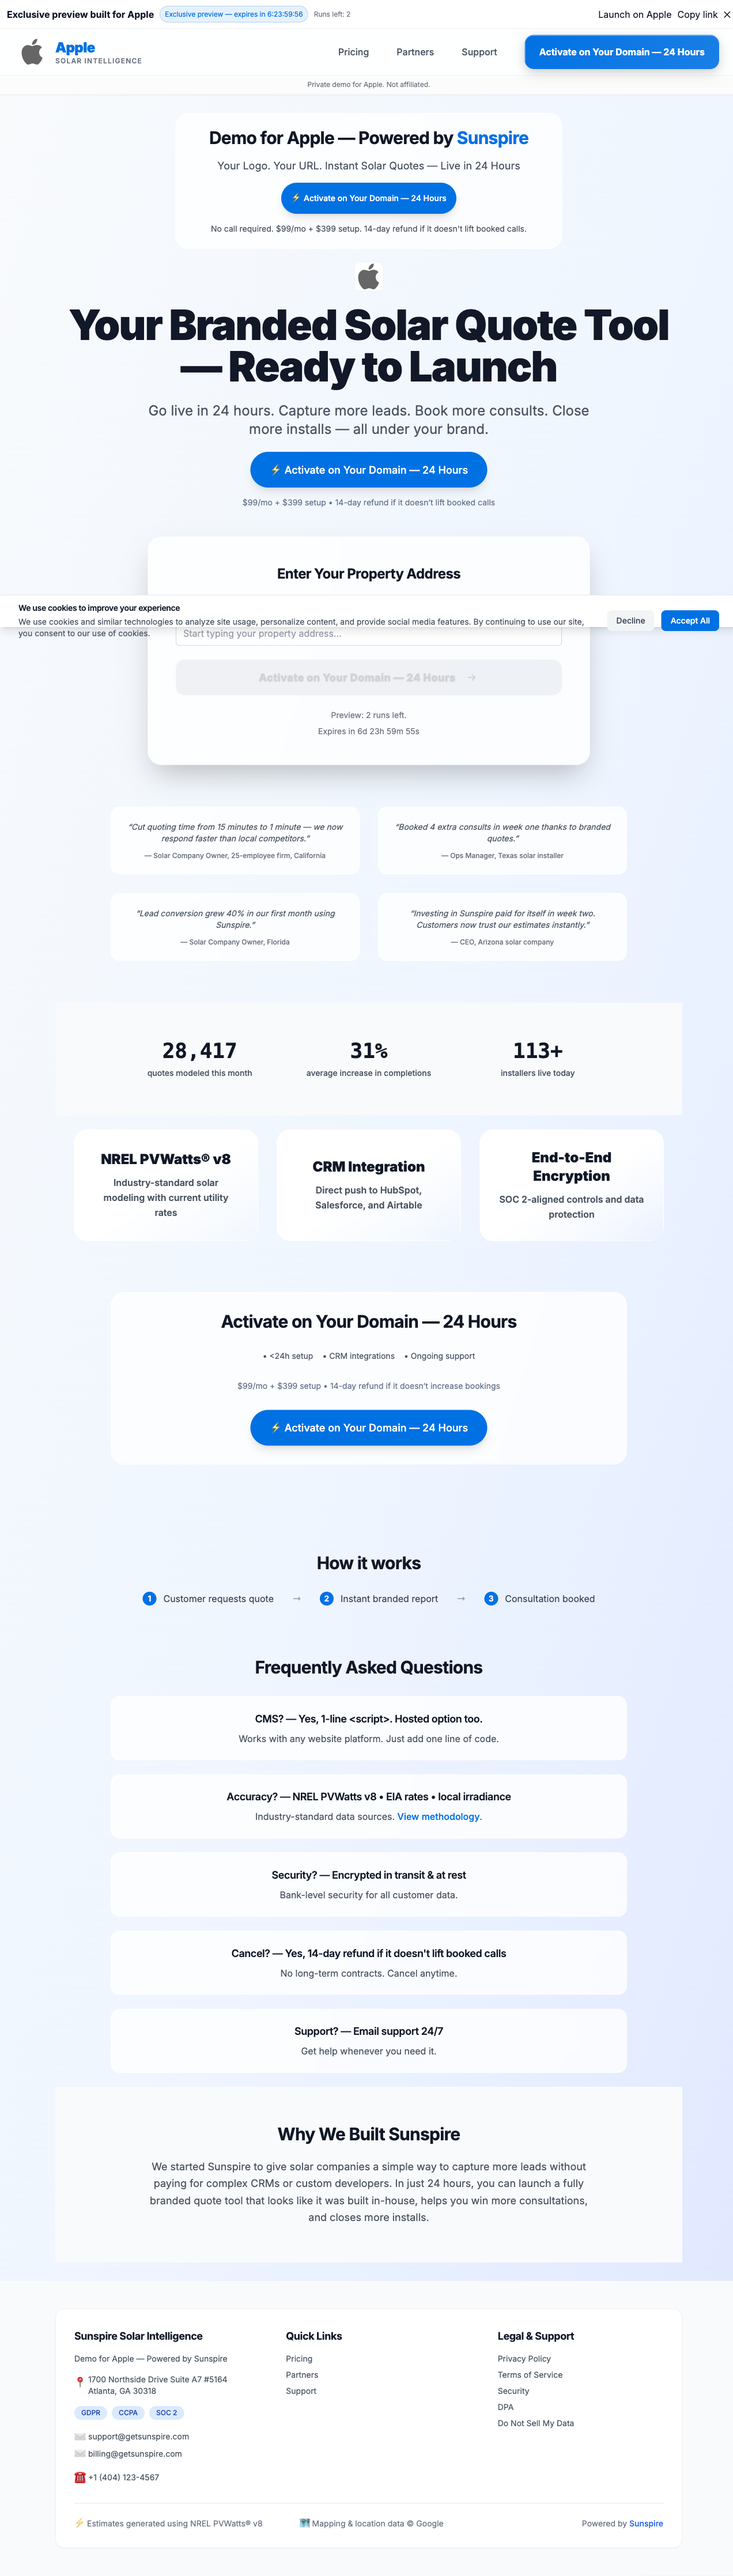
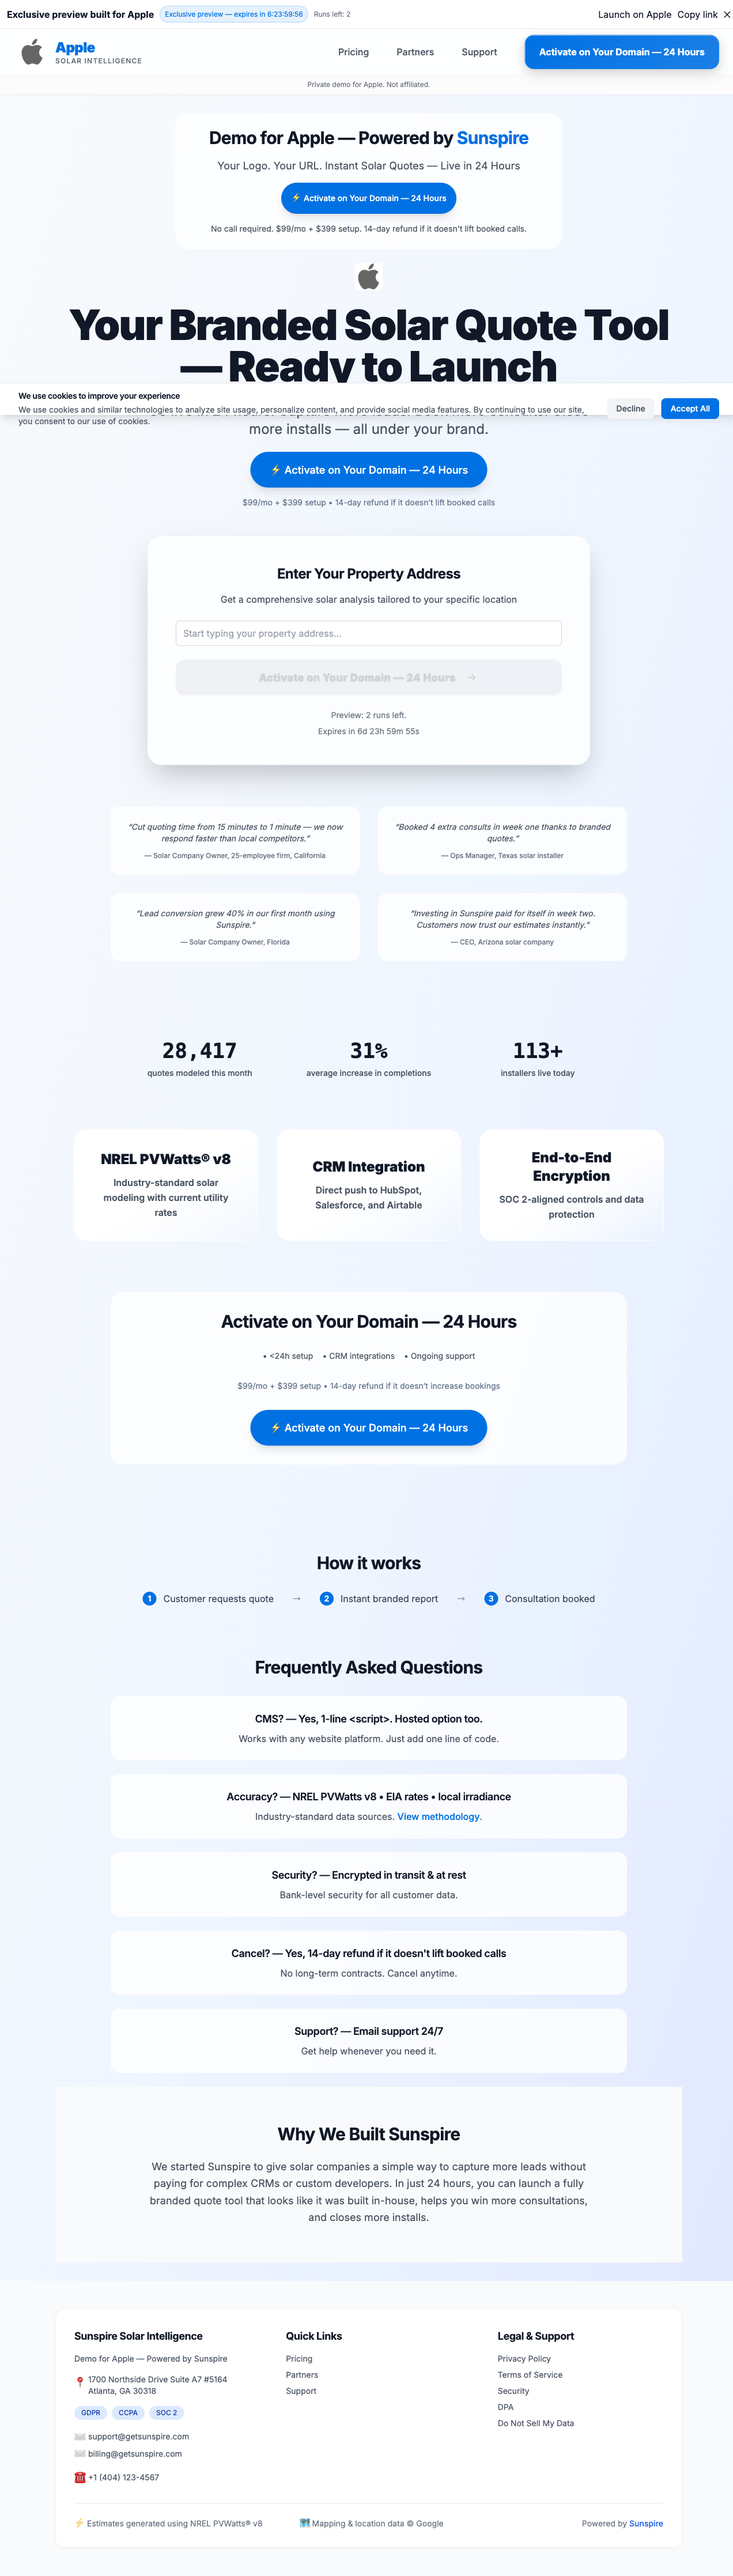
Add company color background to KPI band (28,417 quotes, 31% increase, 113+ installers)

diff --git a/app/page.tsx b/app/page.tsx
@@ -464,7 +464,7 @@ function HomeContent() {
           </div>
 
           {/* KPI Band - Single band only */}
-          <div className="bg-gray-50 py-16">
+          <div className="py-16" style={{ backgroundColor: 'var(--brand-primary)' + '10' }}>
             <div className="max-w-4xl mx-auto px-4 sm:px-6 lg:px-8">
               <div className="grid grid-cols-3 gap-12 text-center">
                 <div className="group">
